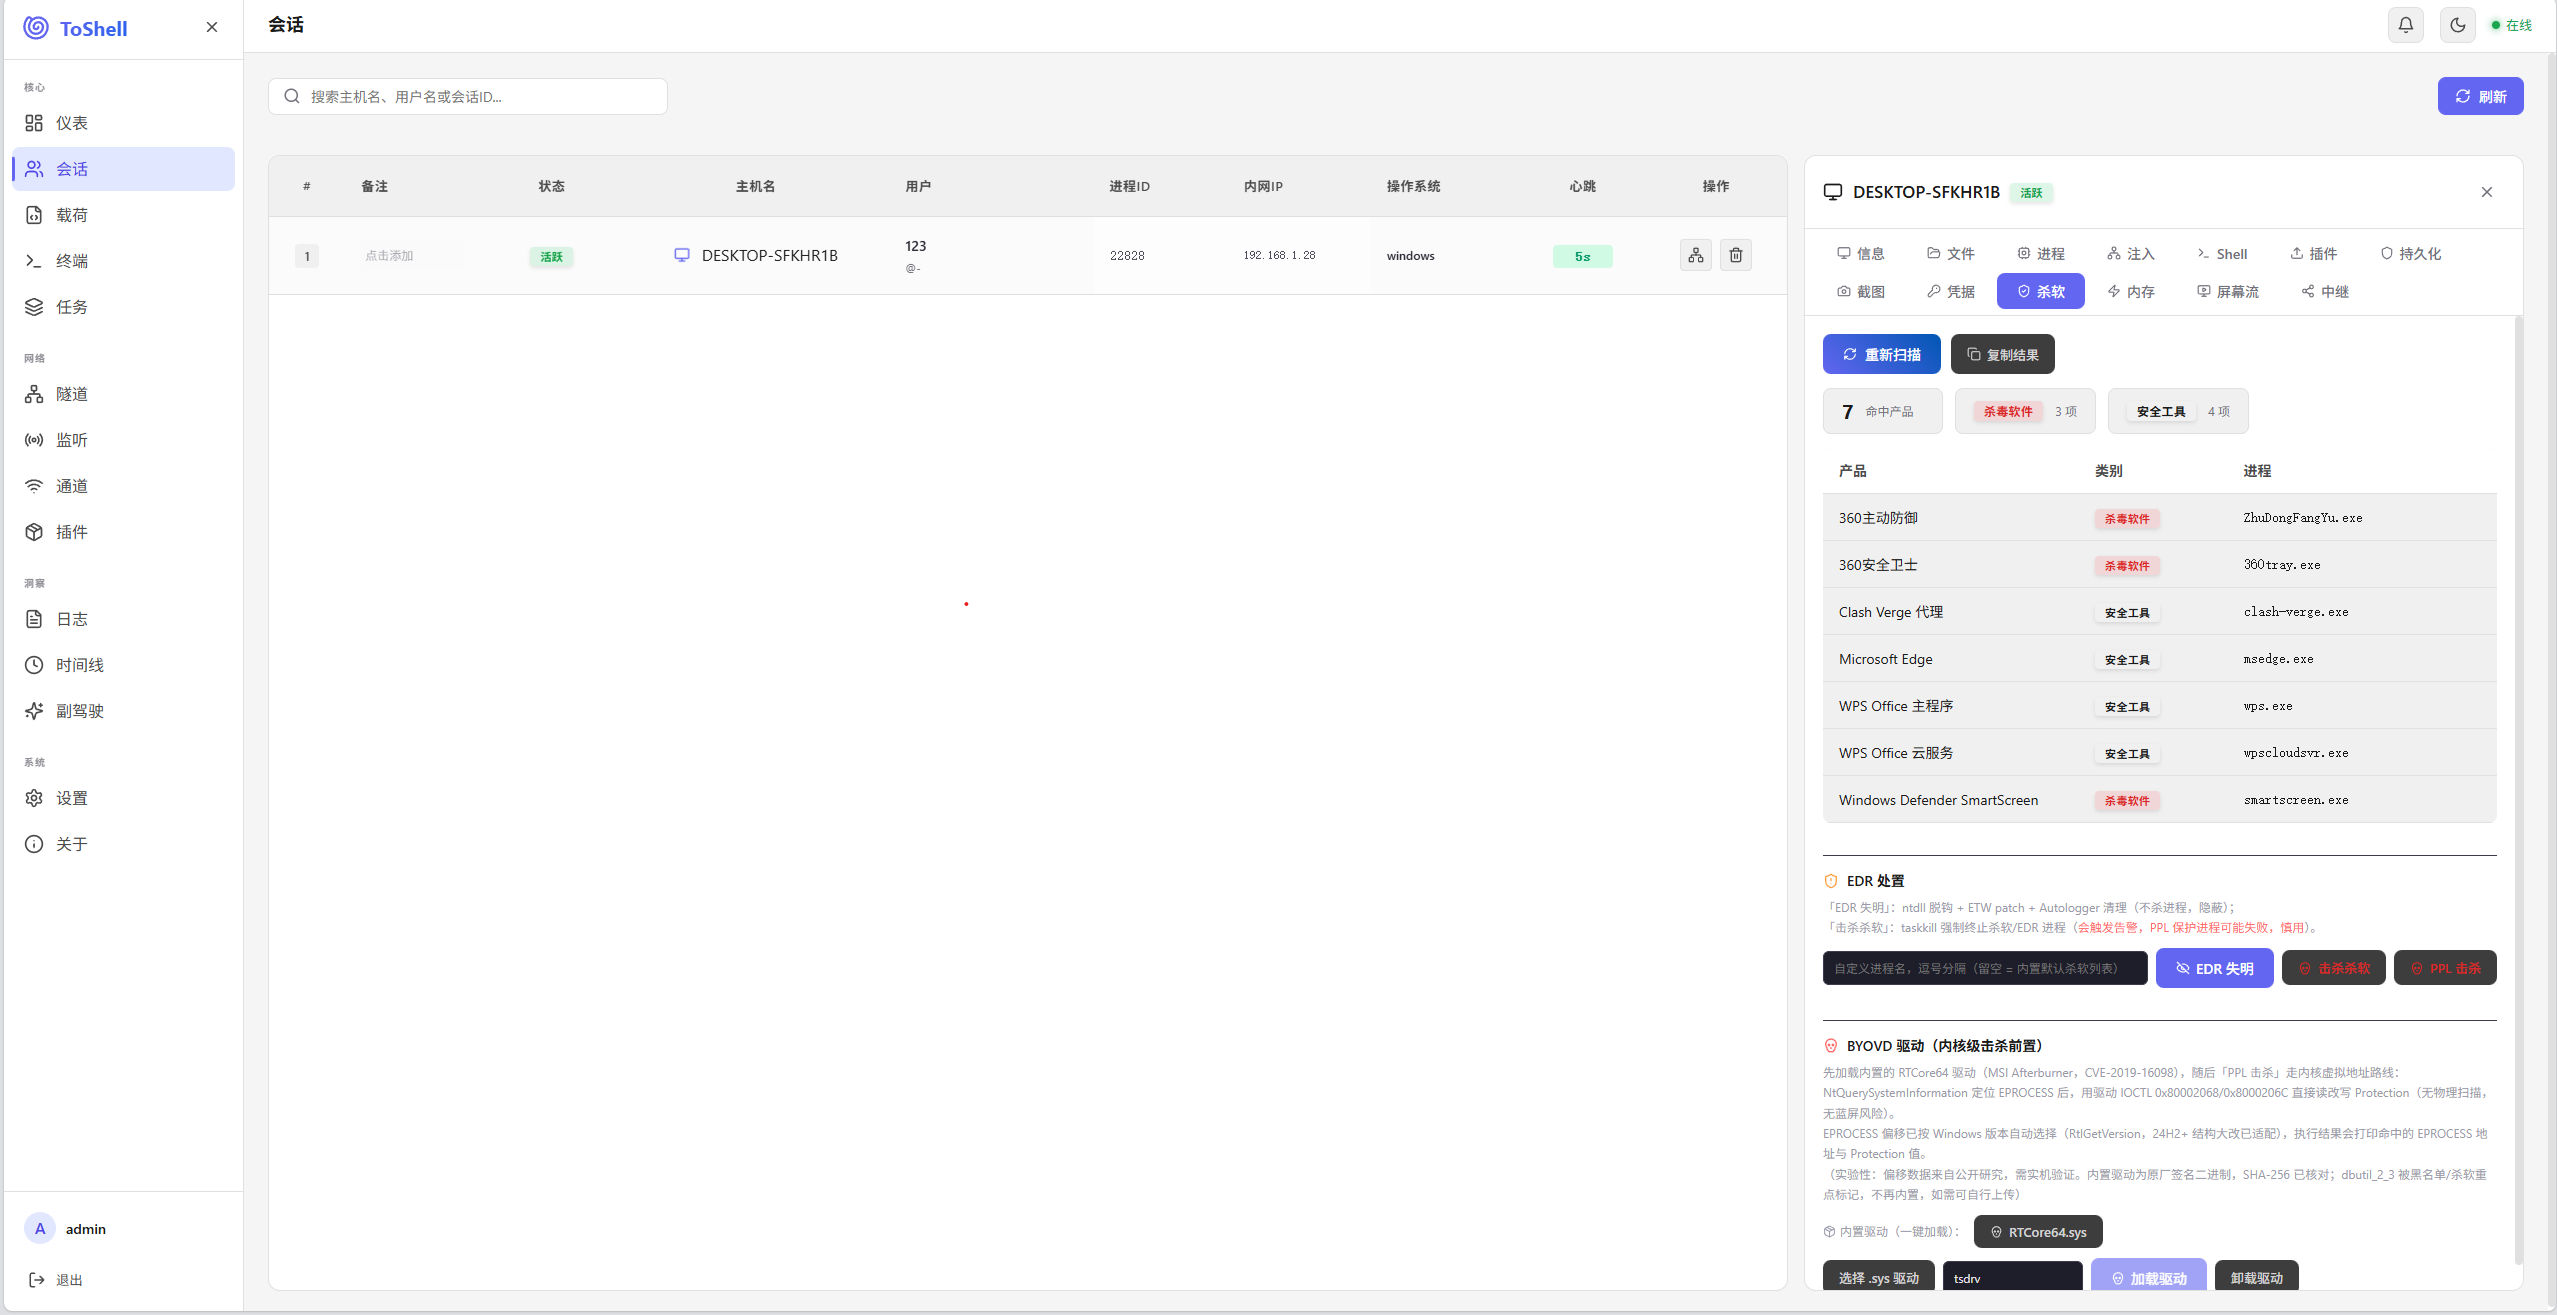
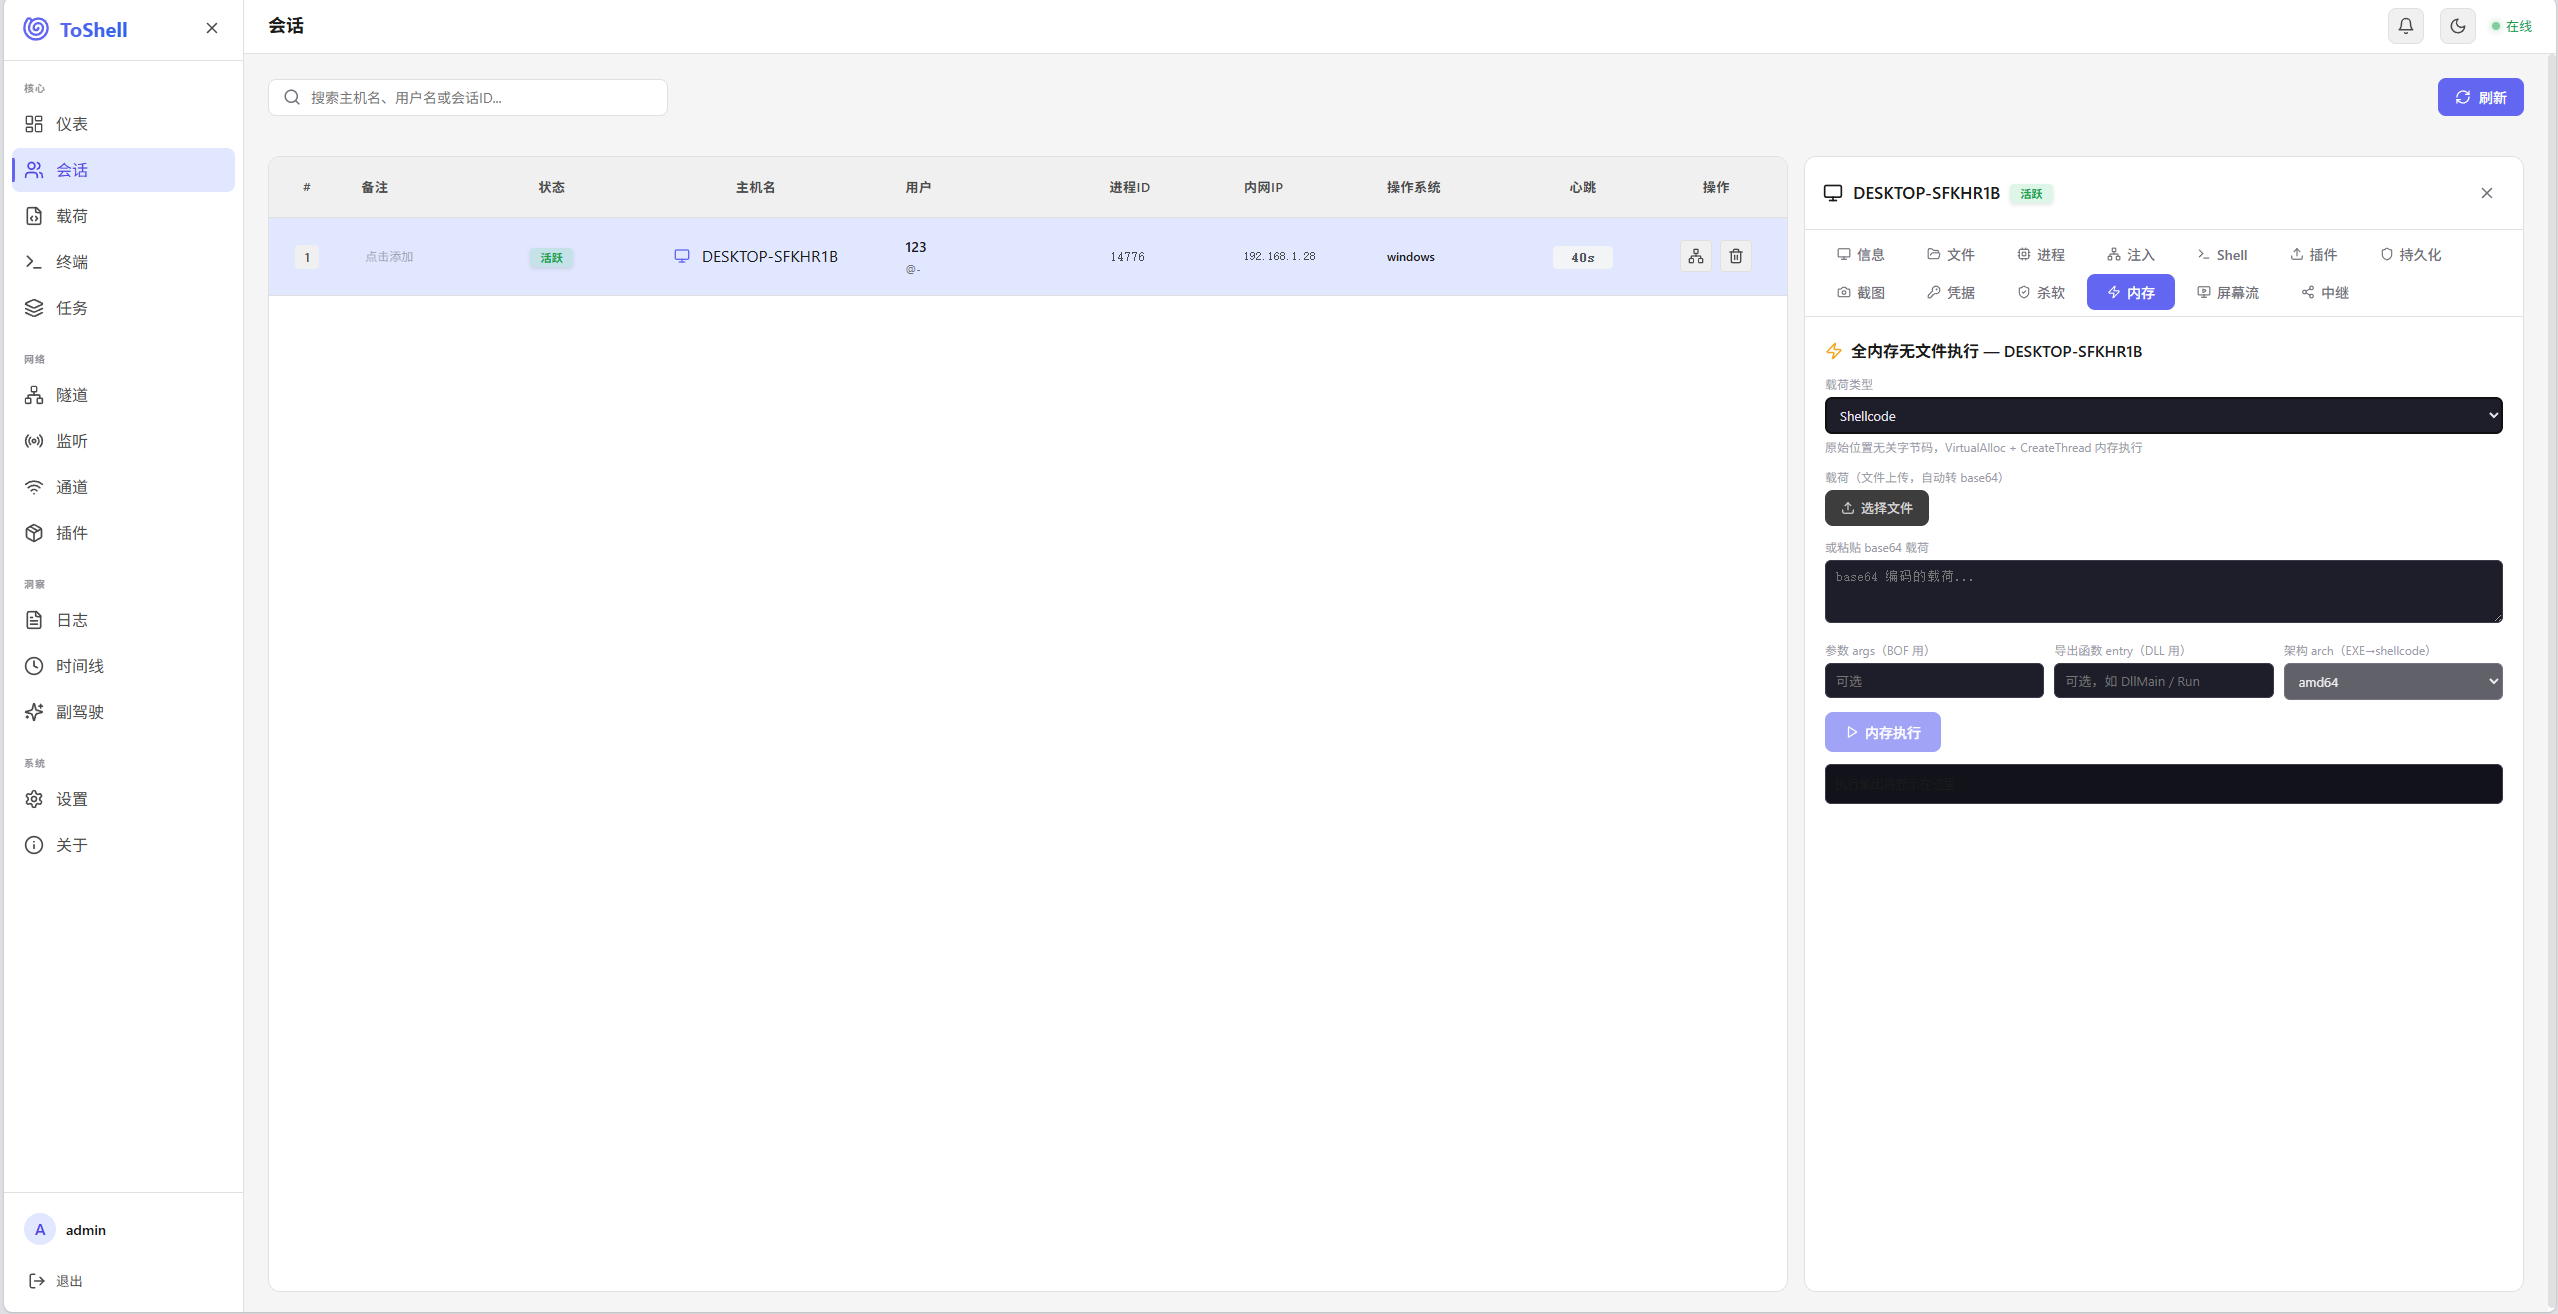
docs: one screenshot per line, enlarge to 100%, add avidentify screenshot

diff --git a/README.md b/README.md
@@ -38,17 +38,29 @@ ToShell 是一个轻量 C2 框架，由 **服务端（Team Server）+ Web 控制
 
 > 截图位于 `docs/screenshots/`。
 
-| 仪表盘 | 会话管理 |
-|---|---|
-| <img src="docs/screenshots/dashboard.png" width="880" alt="仪表盘"> | <img src="docs/screenshots/sessions.png" width="880" alt="会话管理"> |
+**仪表盘**：会话/任务概览、图表与实时状态。
 
-| AI 副驾驶 | 文件管理 |
-|---|---|
-| <img src="docs/screenshots/copilot.png" width="880" alt="AI 副驾驶"> | <img src="docs/screenshots/files.png" width="880" alt="文件管理"> |
+<img src="docs/screenshots/dashboard.png" width="100%" alt="仪表盘">
 
-| 内存执行 |
-|---|
-| <img src="docs/screenshots/memexec.png" width="880" alt="内存执行"> |
+**会话管理**：多平台会话、任务下发与状态跟踪。
+
+<img src="docs/screenshots/sessions.png" width="100%" alt="会话管理">
+
+**AI 副驾驶**：联网分析、工具调用与权限审批。
+
+<img src="docs/screenshots/copilot.png" width="100%" alt="AI 副驾驶">
+
+**文件管理**：上传 / 下载 / 在线预览，断点续传。
+
+<img src="docs/screenshots/files.png" width="100%" alt="文件管理">
+
+**内存执行**：免落地加载 DLL / EXE / BOF 与内存操作。
+
+<img src="docs/screenshots/memexec.png" width="100%" alt="内存执行">
+
+**杀软识别**：检测目标环境杀软 / 安全监控进程，辅助规避。
+
+<img src="docs/screenshots/avidentify.png" width="100%" alt="杀软识别">
 
 ## 快速开始
 
